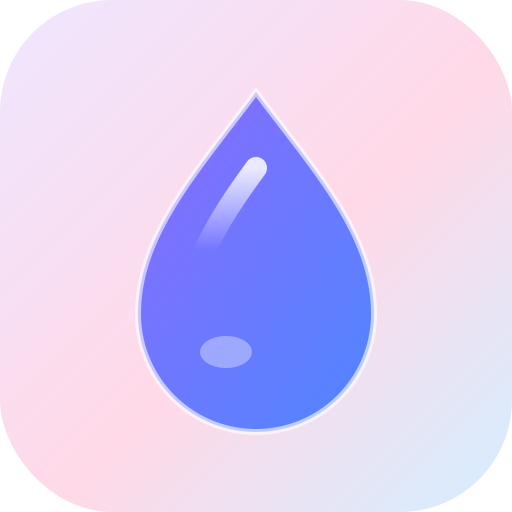
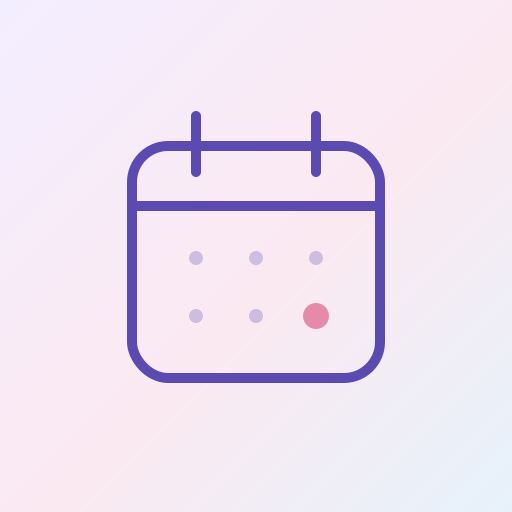
Nuevo ícono: calendario fino lila
Claude-Session: https://claude.ai/code/session_01TT55sxZikXNYMevX242q8U

Changed region(s): [[0.25, 0.1875, 0.75, 0.8438], [0.9688, 0.9688, 1.0, 1.0]]

diff --git a/sw.js b/sw.js
@@ -1,5 +1,5 @@
 // Funciona sin conexión: guarda la app en caché y la actualiza cuando hay red.
-const CACHE = 'tahara-v27';
+const CACHE = 'tahara-v28';
 const FILES = ['./', 'index.html', 'logic.js', 'agregar.html', 'manifest.webmanifest', 'icon.svg', 'icon-180.png', 'icon-192.png', 'icon-512.png'];
 self.addEventListener('install', e => { e.waitUntil(caches.open(CACHE).then(c => c.addAll(FILES))); self.skipWaiting(); });
 self.addEventListener('activate', e => { e.waitUntil(caches.keys().then(ks => Promise.all(ks.filter(k => k !== CACHE).map(k => caches.delete(k))))); self.clients.claim(); });
